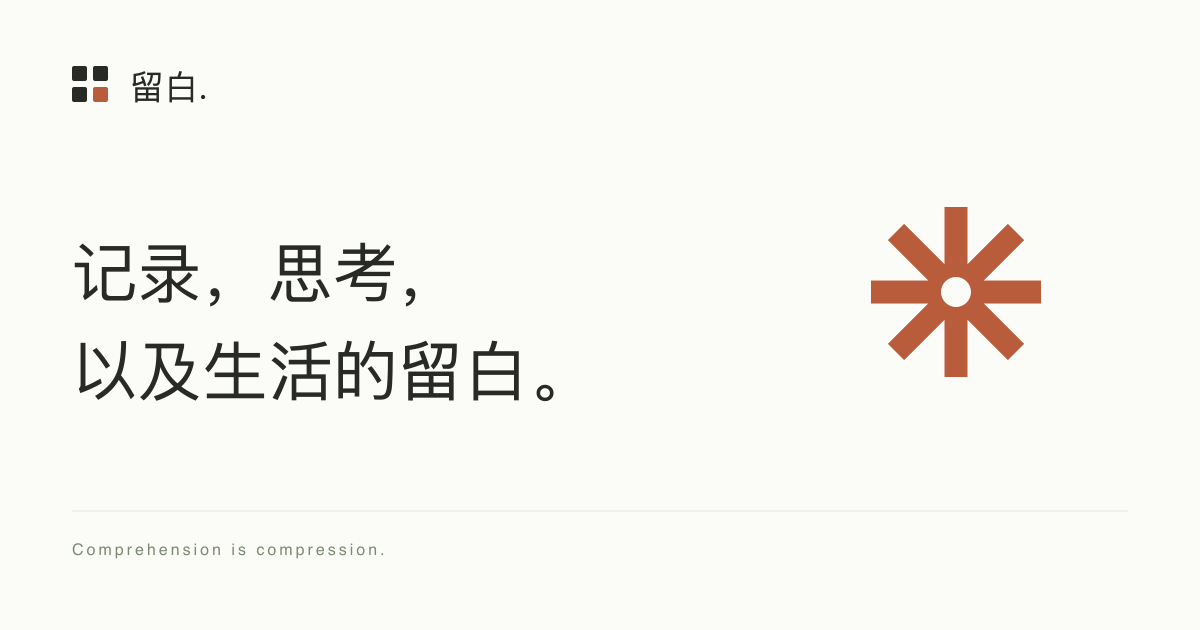
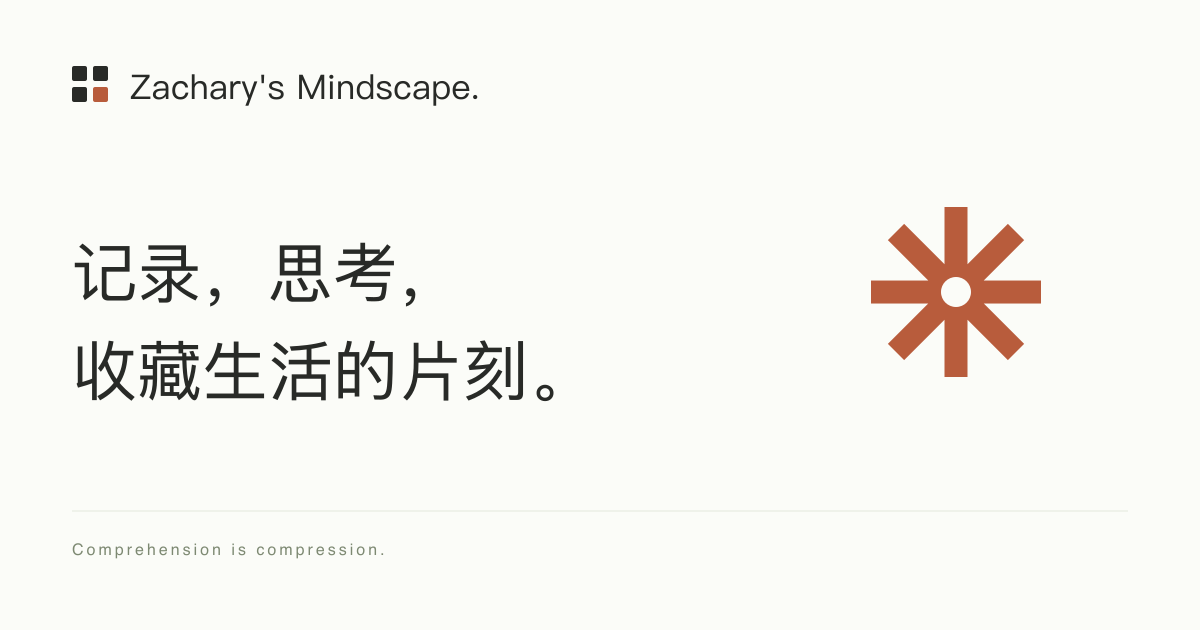
Rename blog to Zachary's Mindscape

Changed region(s): [[0.0925, 0.1206, 0.4008, 0.181], [0.3392, 0.5429, 0.4625, 0.6333], [0.0617, 0.5429, 0.185, 0.6333]]

diff --git a/astro/src/styles/global.css b/astro/src/styles/global.css
@@ -48,14 +48,14 @@ button, a { touch-action: manipulation; }
 
 /* Shared frame */
 .site-header { border-bottom: 1px solid var(--line); background: rgba(255, 255, 255, .97); position: relative; z-index: 20; }
-.header-inner { height: 86px; display: flex; align-items: center; justify-content: space-between; }
-.wordmark { display: inline-flex; align-items: center; gap: 11px; font-size: 23px; font-weight: 650; letter-spacing: -.08em; white-space: nowrap; }
+.header-inner { height: 86px; display: flex; align-items: center; justify-content: space-between; gap: 24px; }
+.wordmark { display: inline-flex; align-items: center; gap: 11px; font-size: 23px; font-weight: 650; letter-spacing: -.035em; white-space: nowrap; }
 .brand-period { color: var(--accent); }
 .brand-mark { display: grid; grid-template-columns: repeat(2, 7px); gap: 3px; transform: rotate(-8deg); margin-right: 1px; }
 .brand-mark span { background: var(--ink); width: 7px; height: 7px; border-radius: 1px; }
 .brand-mark span:last-child { background: var(--accent); }
 .brand-caption { font-size: 10px; font-weight: 400; color: #858980; letter-spacing: .02em; border-left: 1px solid #ddd; padding-left: 17px; margin-left: 6px; }
-.header-right { display: flex; align-items: center; gap: 19px; }
+.header-right { display: flex; align-items: center; gap: 19px; flex-shrink: 0; }
 .desktop-nav { display: flex; gap: 30px; align-items: center; }
 .desktop-nav a { color: #74786f; font-size: 12px; position: relative; padding-block: 8px; transition: color .2s; }
 .desktop-nav a:hover, .desktop-nav a.active { color: var(--ink); }
@@ -348,10 +348,7 @@ kbd { font-family: var(--sans); font-size: 10px; line-height: 1.4; color: #85898
   .about-art img { height: 475px; }
   .about-art > span { font-size: 6px; left: 18px; }
 }
-@media (max-width: 600px) {
-  .container { width: calc(100% - 40px); }
-  .header-inner { height: 70px; }
-  .wordmark { font-size: 22px; }
+@media (max-width: 680px) {
   .brand-caption, .desktop-nav, .nav-divider, .header-rss { display: none; }
   .header-right { gap: 17px; }
   .search-trigger kbd { display: none; }
@@ -359,6 +356,12 @@ kbd { font-family: var(--sans); font-size: 10px; line-height: 1.4; color: #85898
   .mobile-nav { display: grid; gap: 0; padding-bottom: 14px; }
   .mobile-nav a { display: flex; justify-content: space-between; align-items: center; padding: 14px 6px; font-size: 13px; color: #77816b; border-bottom: 1px solid #f1f3ec; }
   .mobile-nav a[aria-current] { color: var(--accent); }
+}
+@media (max-width: 600px) {
+  .container { width: calc(100% - 40px); }
+  .header-inner { height: 70px; }
+  .header-inner { gap: 12px; }
+  .wordmark { font-size: clamp(16px, 4.2vw, 20px); gap: 8px; }
   .hero { padding: 41px 0 37px; flex-direction: column; align-items: flex-start; gap: 27px; }
   .hero-eyebrow { margin-bottom: 19px; font-size: 7px; }
   .hero h1 { font-size: clamp(32px, 8.25vw, 48px); line-height: 1.45; letter-spacing: -.06em; }

diff --git a/astro/src/site.config.ts b/astro/src/site.config.ts
@@ -1,5 +1,5 @@
 export const site = {
-  title: '留白',
+  title: "Zachary's Mindscape",
   tagline: 'Comprehension is compression.',
   description: 'Comprehension is compression. — Zi_Gao 的算法题解、学习笔记与生活游记。',
   author: 'Zi_Gao',

diff --git a/astro/README.md b/astro/README.md
@@ -1,4 +1,4 @@
-# 留白 · Zi_Gao's Blog
+# Zachary's Mindscape
 
 **Comprehension is compression.**
 

diff --git a/README.md b/README.md
@@ -1,4 +1,4 @@
-# Zi_Gao's Blog
+# Zachary's Mindscape
 
 **Comprehension is compression.**
 
